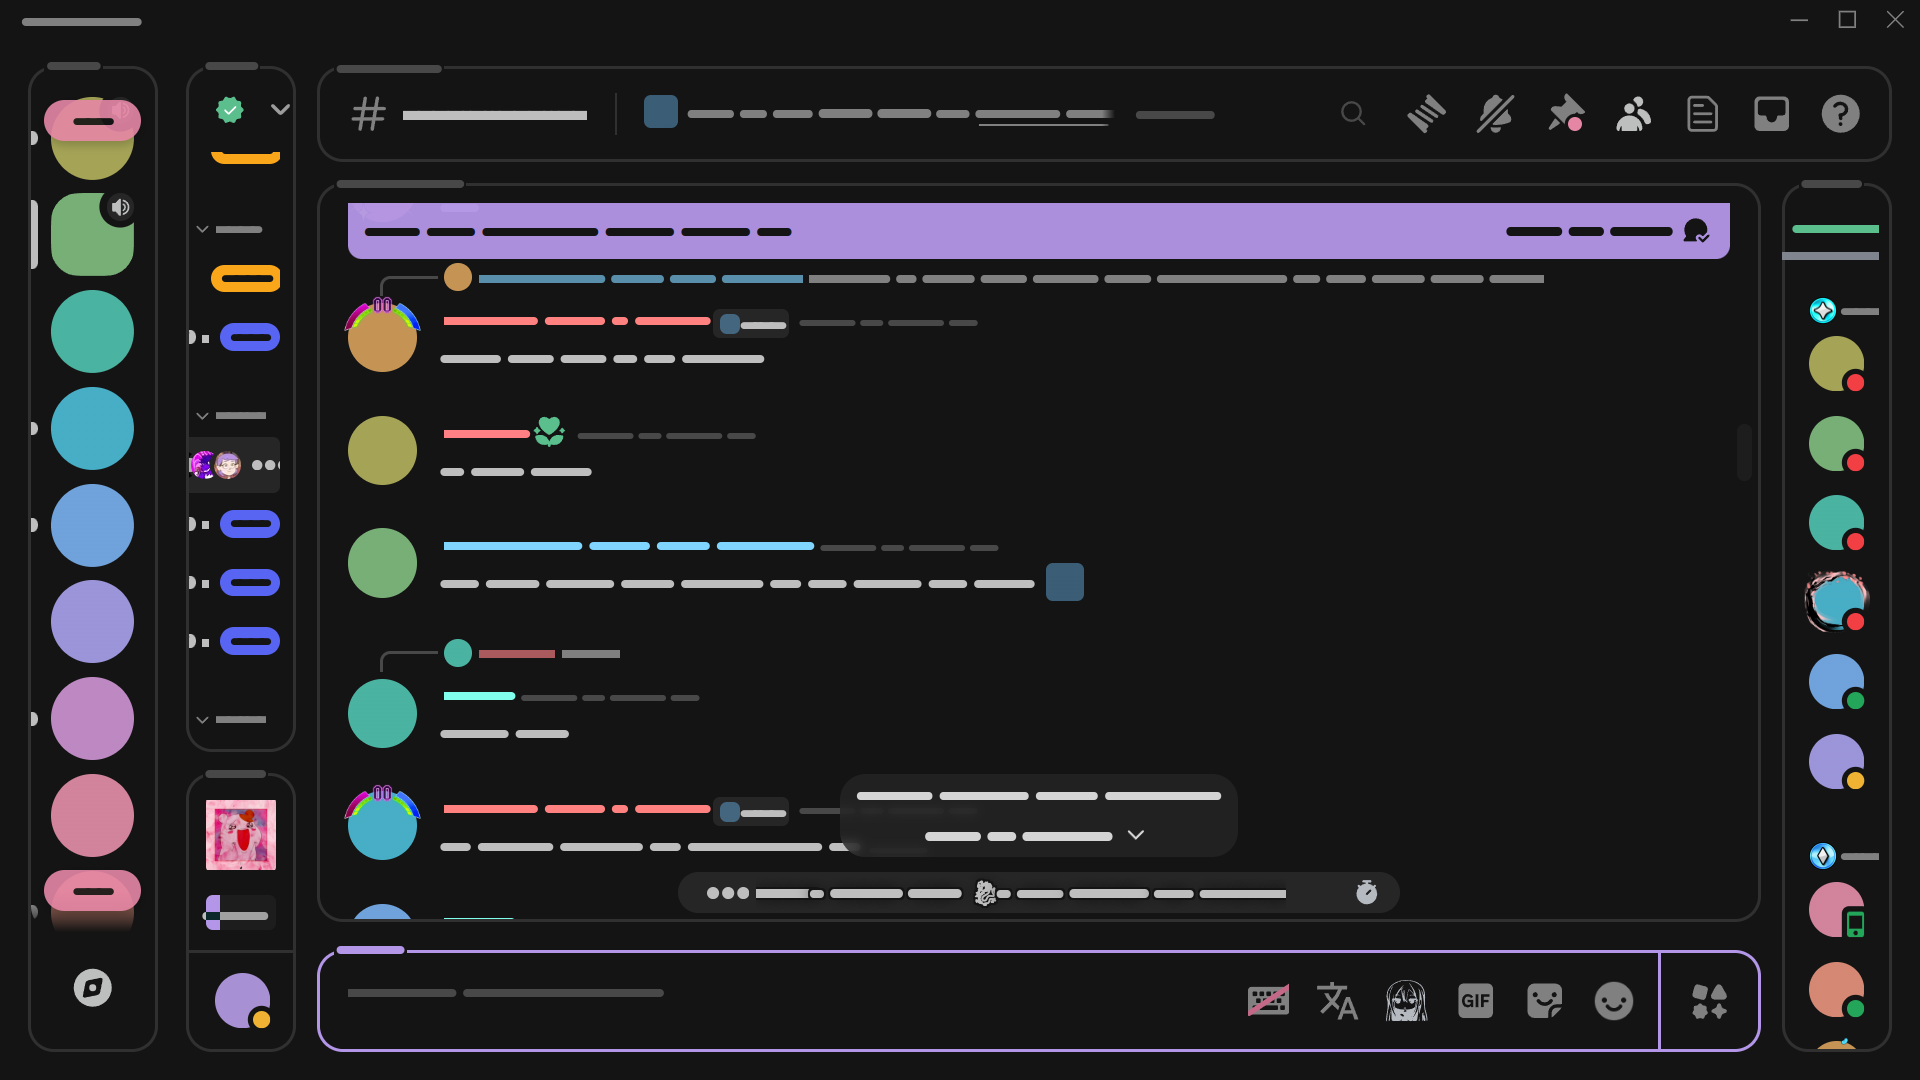
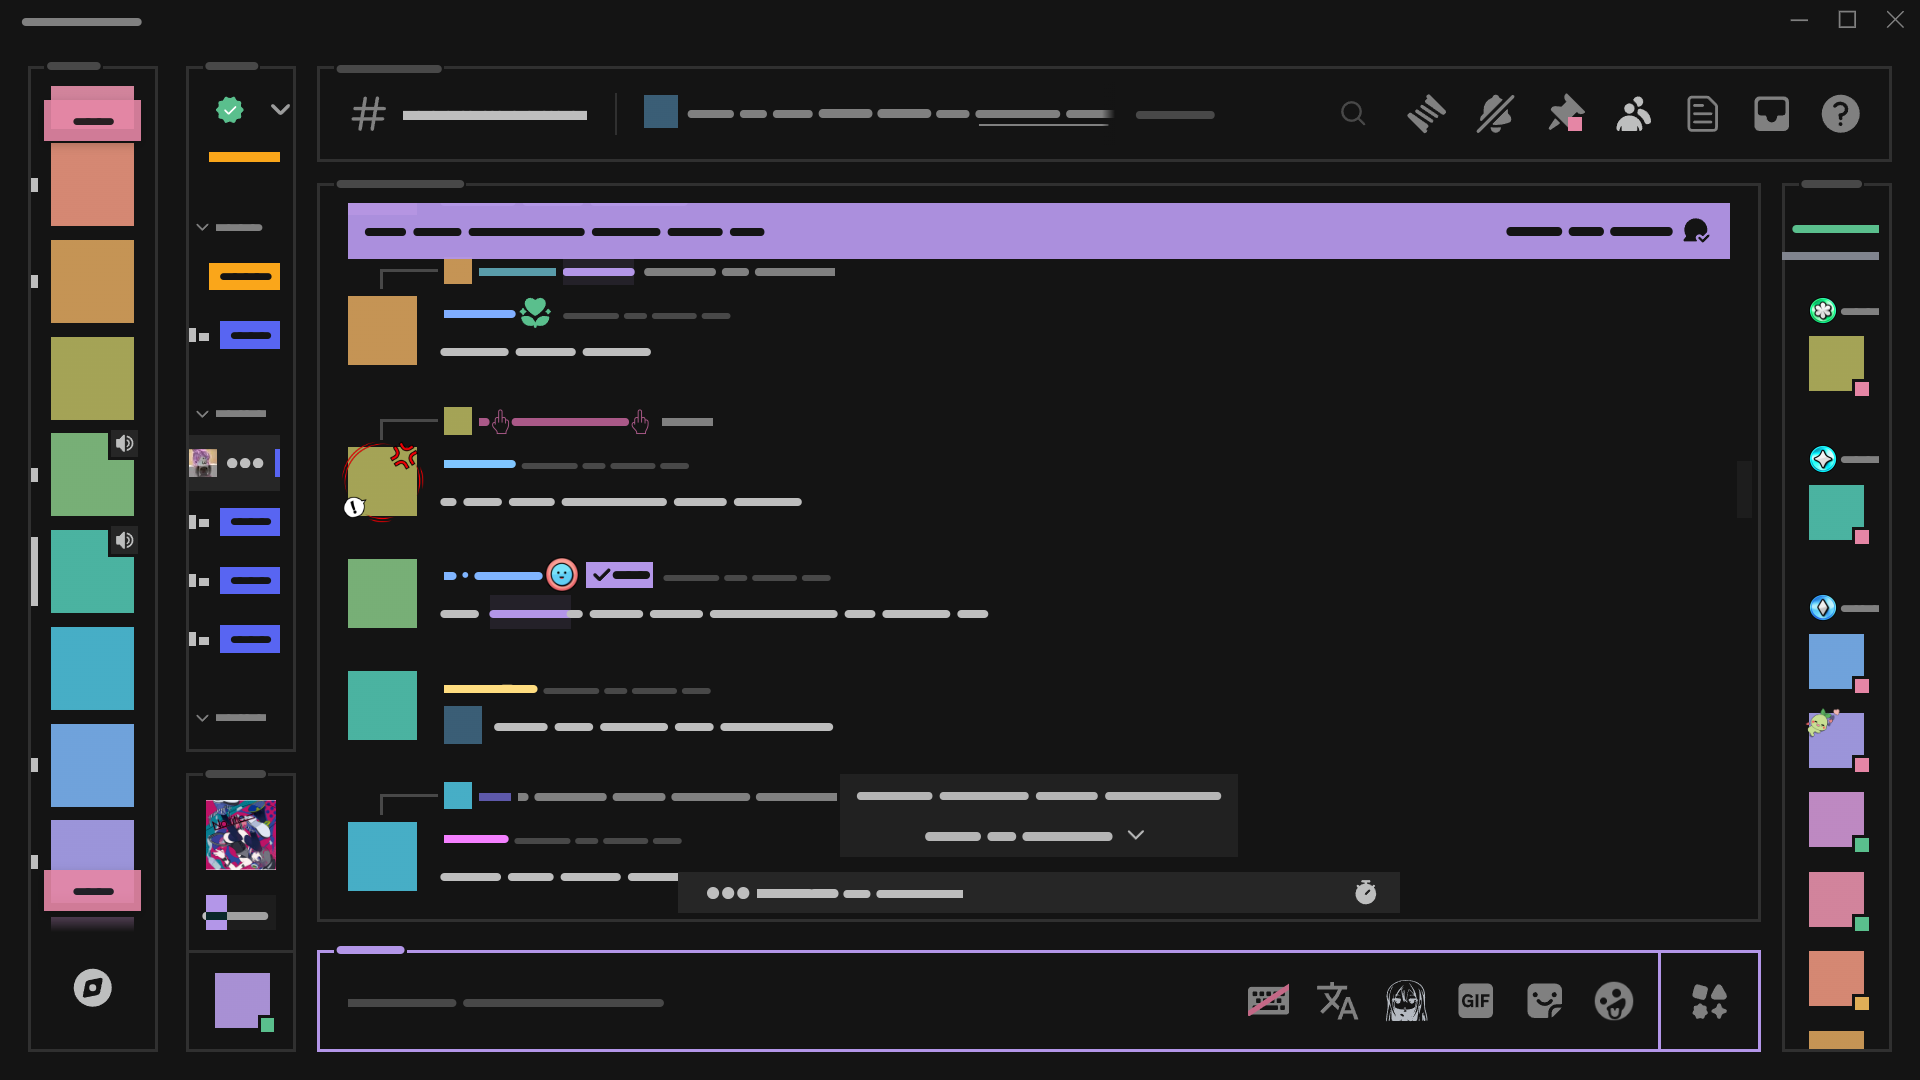
More previews

diff --git a/README.md b/README.md
@@ -23,10 +23,12 @@
 
 ## Flavors
 
-###### ⚠ NOTE: Rounding is enabled by default, if you want otherwise, insert [unrounding.css](https://refact0r.github.io/system24/src/unrounding.css) yourself!
+> [!NOTE]  
+> Rounding is enabled by default, if you want otherwise, insert [unrounding.css](https://refact0r.github.io/system24/src/unrounding.css) yourself!
 
 <details><summary>Dark <small>(default)</small></summary>
 
+- **Includes unrounding.css**
 - `https://raw.githubusercontent.com/Androser420/sysmol24/refs/heads/main/theme/sysmol24.theme.css`
 
 ![default](/assets/default.png)
@@ -37,11 +39,53 @@
 
 ![light](/assets/light.png)
 </details>
+
+---
+
+<details><summary>Catppuccin Macchiato</summary>
+
+- `https://raw.githubusercontent.com/Androser420/sysmol24/refs/heads/main/theme/flavors/catppuccin-macchiato/main.theme.css`
+
+![macchiato](/assets/macchiato.png)
+</details>
+<details><summary>Catppuccin Mocha</summary>
+
+- `https://raw.githubusercontent.com/Androser420/sysmol24/refs/heads/main/theme/flavors/catppuccin-mocha/main.theme.css`
+
+![mocha](/assets/mocha.png)
+</details>
+
+---
+
 <details><summary>Gruvbox Material</summary>
 
 - `https://raw.githubusercontent.com/Androser420/sysmol24/refs/heads/main/theme/flavors/gruvbox-material/main.theme.css`
 
 ![gruvbox](/assets/gruvbox.png)
+</details>
+<details><summary>Spotify</summary>
+
+- `https://raw.githubusercontent.com/Androser420/sysmol24/refs/heads/main/theme/flavors/spotify-text/main.theme.css`
+
+![spotify](/assets/spotify.png)
+</details>
+<details><summary>Vencord</summary>
+
+- `https://raw.githubusercontent.com/Androser420/sysmol24/refs/heads/main/theme/flavors/vencord/main.theme.css`
+
+![vencord](/assets/vencord.png)
+</details>
+<details><summary>Tokyo Night</summary>
+
+- `https://raw.githubusercontent.com/Androser420/sysmol24/refs/heads/main/theme/flavors/tokyo-night/main.theme.css`
+
+![tokyo-night](/assets/tokyo-night.png)
+</details>
+<details><summary>Rosepine</summary>
+
+- `https://raw.githubusercontent.com/Androser420/sysmol24/refs/heads/main/theme/flavors/rosepine/main.theme.css`
+
+![rosepine](/assets/rosepine.png)
 </details>
 
 ---
